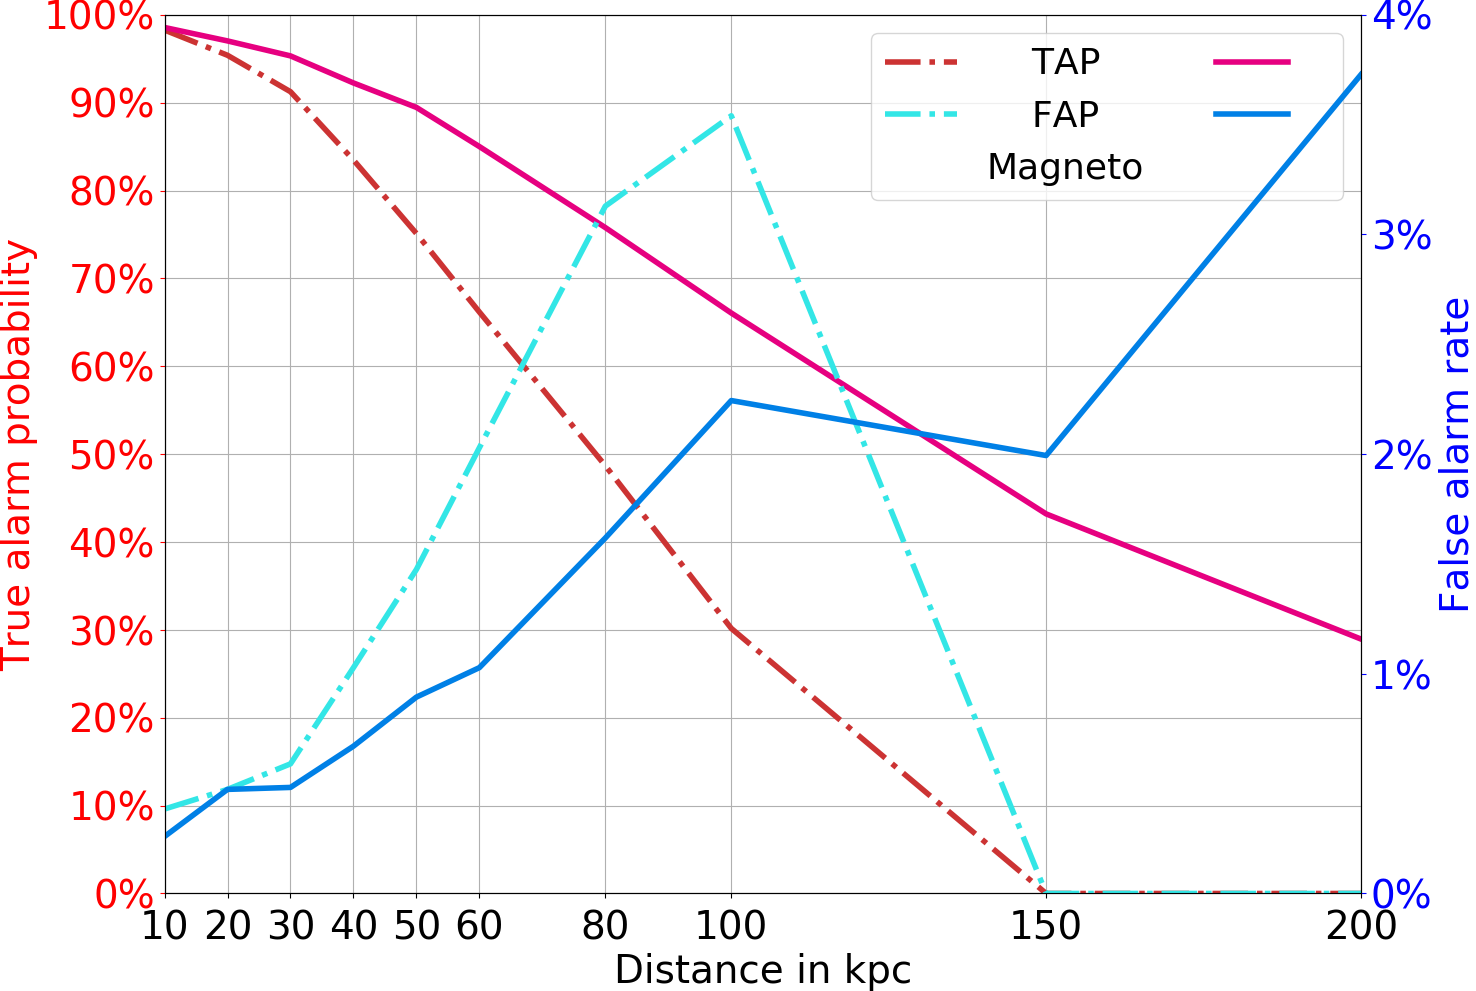
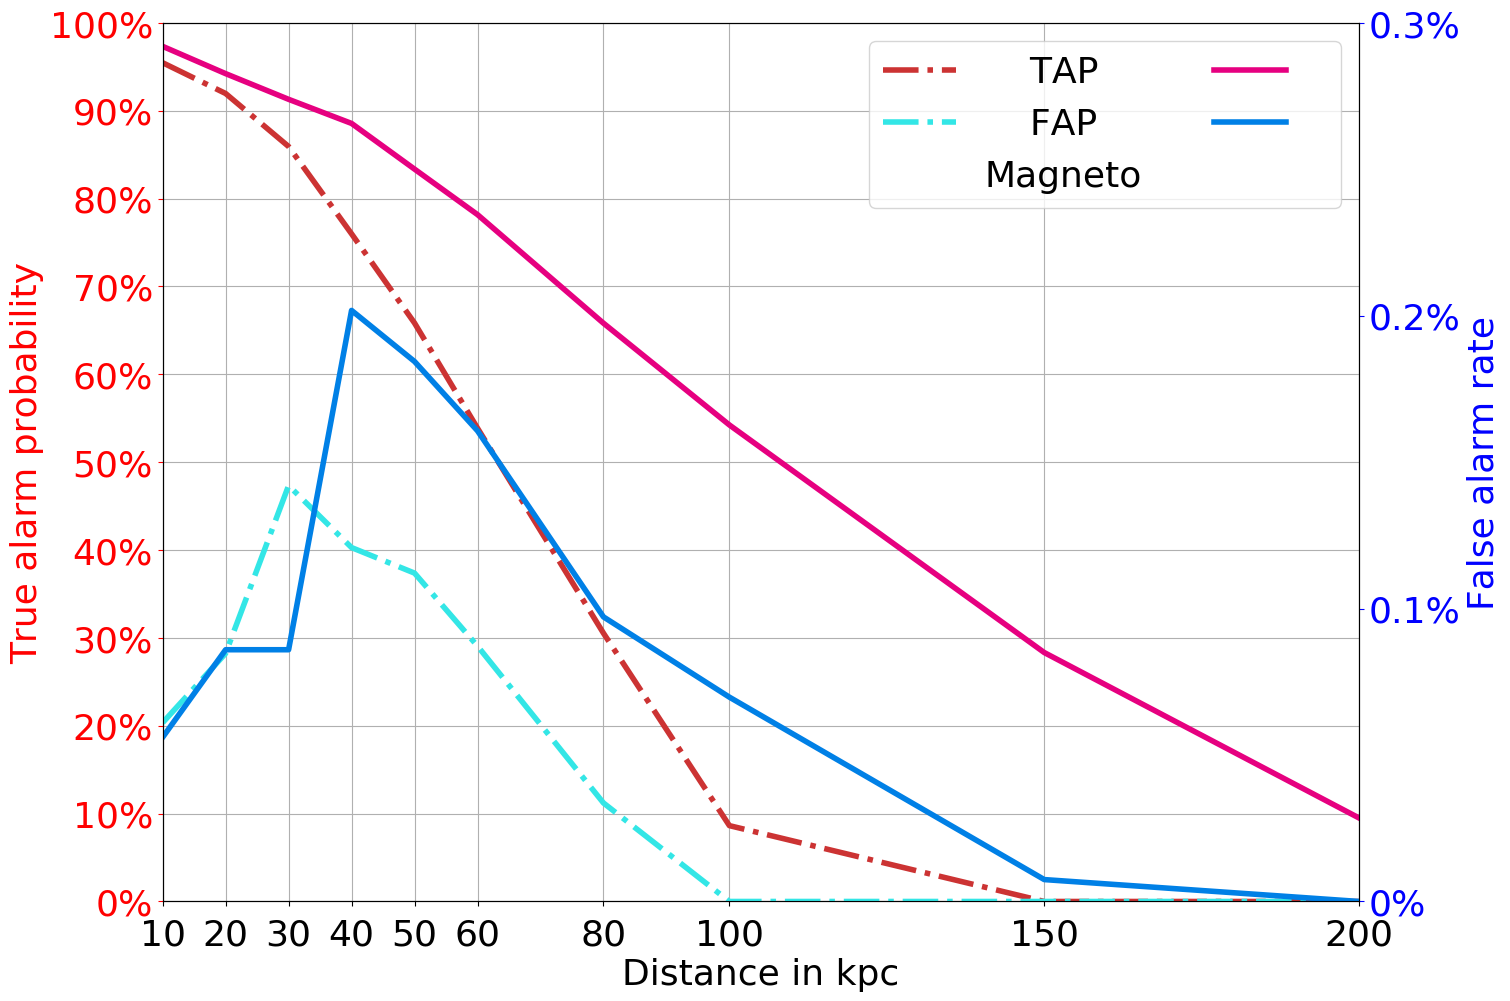
revised version of the paper

diff --git a/main.tex b/main.tex
@@ -87,13 +87,15 @@ the gravitational wave signals buried in noise. For the waveforms used in the
 training of the convolutional neural network, our results suggest that a
 network of advanced LIGO, advanced VIRGO and KAGRA, or a network of LIGO A+,
 advanced VIRGO and KAGRA is likely to detect a magnetorotational core collapse
-supernovae within the Large and Small Magellanic Clouds, or a Galactic event if
-the explosion mechanism is the neutrino-driven mechanism.  By testing the
-convolutional neural network with waveforms not used for training, we show that
-the true alarm probabilities are $52\%$ and $83\%$ at $60$ kpc for waveforms
-$\text{R3E1AC}$ and $\text{R4E1FC\_L}$.  For waveforms $\text{s}20$ and
-$\text{SFHx}$ at $10$ kpc, the true alarm probabilities are $70\%$ and $93\%$
-respectively. All at false alarm probability equal to $10\%$. 
+supernovae out to the Large or even Small Magellanic Clouds. A Galactic event 
+is likely to be detectable with a network of H+L+VK if the explosion mechanism 
+is the neutrino-driven mechanism.  By testing the convolutional neural network 
+with waveforms not used for training, we show that the true alarm probabilities 
+are $50\%$ and $73\%$ at $50$ kpc for waveforms $\text{R3E1AC}$ and 
+$\text{R4E1FC\_L}$ for networks of HLVK and H+L+VK respectively.  
+For waveforms $\text{s}20$ and $\text{SFHx}$ at $10$ kpc, 
+the true alarm probabilities are $64\%$ for a network of H+L+VK. 
+All at false alarm probability equal to $1\%$. 
 \end{abstract}
 
 \pacs{}
@@ -119,11 +121,14 @@ respectively. All at false alarm probability equal to $10\%$.
 %
 % general background on GWs
 %
-Since 2015 when LIGO made the first direct observation of \acp{GW} from the
-merger of a binary black hole~\cite{abbott2016observation}, there have been
+In 2015, LIGO made the first direct observation of \acp{GW} from the
+merger of a binary black hole~\cite{abbott2016observation} 
+with the detector of \ac{aLIGO}~\cite{aasi2015advanced}.
+Since then and after VIRGO joined the observations 
+with its \ac{AdVirgo} detector~\cite{abbott2016gw151226,
+abbott2017gw170608, abbott2017gw170814}, there have been
 numerous observations of \acp{GW} from similar systems in the subsequent
-observation runs of LIGO and VIRGO~\cite{abbott2016gw151226,
-abbott2017gw170608, abbott2017gw170814}. These discoveries represent a crucial
+observation runs of LIGO and VIRGO. These discoveries represent a crucial
 milestone in \ac{GW} astronomy and have opened up a new window on the universe.
 More recently, LIGO and VIRGO have observed the \acp{GW} from a binary neutron
 star merger~\cite{abbott2017gw170817, abbott2017gravitational, abbott2017multi}
@@ -131,8 +136,9 @@ where the \acp{GW} and an associated gamma-ray burst were observed
 simultaneously. Other counterparts across the electromagnetic spectrum were
 also observed by later follow-up observations~\cite{abbott2017multi}. In the
 near future, many more observations of \acp{GW} from similar \ac{CBC} systems
-can be expected as KAGRA starts joint observations with LIGO and
-VIRGO~\cite{aso2013interferometer, somiya2012detector, abbott2018prospects}.
+can be expected as the KAGRA interferometer starts joint observations with LIGO and
+VIRGO~\cite{aso2013interferometer, somiya2012detector, abbott2018prospects, gossan2016observing,
+abbott2016first, abbott2019optically}.
 
 %
 % intro to core-collapse supernovae
@@ -140,11 +146,9 @@ VIRGO~\cite{aso2013interferometer, somiya2012detector, abbott2018prospects}.
 In addition to \acp{CBC}, massive stars with $10-100 \text{M}_\odot $ at
 zeros-age main sequence ending their lives by becoming 
 %with core of $10-100 \text{M}_\odot $ prior to collapse 
-\acp{CCSN} are also considered to be potential sources to the second generation
-detectors such as \ac{aLIGO}~\cite{aasi2015advanced},
-\ac{AdVirgo}~\cite{acernese2014advanced} and KAGRA
-interferometers~\cite{aso2013interferometer, gossan2016observing,
-abbott2016first, abbott2019optically}. It is currently not entirely clear to astronomers how such
+\acp{CCSN} are also considered to be potential sources to
+\ac{aLIGO}, \ac{AdVirgo} and KAGRA interferometers. 
+It is currently not entirely clear to astronomers how such
 massive stars become supernovae. The basic theory of the explosion, confirmed
 by the neutrino events observed from SN1987A~\cite{sato1987analysis}, begins
 with a massive star at the final stage of its life forming a core that is
@@ -153,7 +157,7 @@ reactions. The iron core is supported by the pressure of relativistic
 degenerate electrons and if the mass of the core exceeds the effective
 Chandrasekhar mass~\cite{baron1990effect, bethe1990supernova}, core collapse
 will ensue and continue until the core reaches nuclear density. The nuclear
-equation of state will then stiffens by the strong nuclear force above the
+equation of state will then stiffens by the strong nuclear force as the core exceeds
 nuclear density and stops the core collapse. The inner core will bounce back
 and a shock wave will be sent through the infalling matter.  By losing energy
 to the dissociation of the iron nuclei and to neutrino cooling, the shock wave
@@ -340,7 +344,8 @@ often obtained through rough trial and error, followed by fine tuning.
 %
 During the training stage, the weights of the neurons in a \ac{CNN} are updated
 using an algorithm called back-propagation~\cite{lecun1988theoretical}. The
-outputs of the \ac{CNN} (the probabilities of the inferred classes in our case) are used as an input to the loss-function that is associated with the entire network.  
+outputs of the \ac{CNN} (the probabilities of the inferred classes in our case) 
+are used as an input to the loss-function that is associated with the entire network.  
 The value of the loss function is used to evaluate how well the algorithm models the input data of the \ac{CNN}.
 After a subset of training data is fed through the \ac{CNN}, the back-propagation algorithm 
 then computes the gradient of the loss-function with respect
@@ -399,7 +404,7 @@ Layer & Type      & Neurons  & Filter size & Act. Fun \\ \hline
 \setlength\labelsep{0pt}
 \normalfont{
 \item The architecture of the \ac{CNN} used in this work for the purpose of
-distinguishing supernova signals in backgound \ac{GW} detector noise vs detectr
+distinguishing supernova signals in background \ac{GW} detector noise vs detector
 noise alone. In the table, Conv means convolutional layer, Max-pool means
 max-pooling layer, and Fully-con means fully-connected layer. Neuron and Act.
 Fun indicate the number of neurons and the activation function used for the
@@ -493,8 +498,13 @@ data/Andresen2019/ }}$^{,}$\footnote{\href{ https://www.astro.princeton.edu/~bur
 { https://www.astro.princeton.edu/~burrows/gw.3d/  }}. The simulations in~\cite{10.1093mnrasstz990,
 kuroda2017correlated, muller2012parametrized, powell2019gravitational,
 radice2019characterizing, yakunin2017gravitational, ott2013general} were from 3D modelling of
-the supernovae while the simulations in~\cite{yakunin2015gravitational,
-ott2009gravitational, murphy2009model} were 2D. These
+the supernovae. 
+In particular, the waveforms from~\cite{10.1093mnrasstz990, muller2012parametrized,  ott2013general} assuming an observer both along the equator and at the pole
+are available, 
+the waveforms from~\cite{kuroda2017correlated, powell2019gravitational} are available for an observer at the pole, and the waveforms from~\cite{yakunin2017gravitational,
+radice2019characterizing} for an equatorial observer.
+The simulations in~\cite{yakunin2015gravitational,
+ott2009gravitational, murphy2009model} were 2D.   These
 simulations cover a wide range of progenitor masses from $9\text{M}_\odot$ to
 $60\text{M}_\odot$ and the specific progenitor masses of the simulations are
 shown in Table~\ref{table:waveforms}. Examples of the waveforms for
@@ -576,8 +586,8 @@ $^*$ Mass of a star in a binary system with an initial helium mass of $3.5\text{
         }
     \end{center}
     \caption{Examples of simulated waveforms for which the explosion is modelled by
-the magnetorotational mechanism. The left panel shows a waveform
-from~\cite{abdikamalov2014measuring}. The progenitor is $12\text{M}_\odot$ with
+the magnetorotational mechanism. The left panel shows a waveform 
+from~\cite{abdikamalov2014measuring} for an equatorial observer. The progenitor is $12\text{M}_\odot$ with
 differential rotation parameter $A=10^4~\text{km}$. The initial angular velocity
 at the core $\Omega_c$ is $5.0~\text{rads/s}$. The middle panel shows a waveform
 from~\cite{dimmelmeier2008gravitational}. The simulation corresponds to a
@@ -588,7 +598,7 @@ and $\Omega_c$ are $10^4$ km and $3.0~\text{rad/s}$ respectively. In all panels,
 only the $h_{+}$ polarisations are shown because the simulations are
 axis-symmetric or 2D, and therefore described by only one polarisation.  The
 sources are assumed to be at a distance of $10$ kpc. The x-axes show the time after 
-core bounce.\label{fig:magwaveforms}} 
+core bounce. The waveforms shown in all panels are for an observer in the equatorial plane.\label{fig:magwaveforms}} 
 \end{figure*}
 %
 % plot of example neutrino waveforms
@@ -613,7 +623,11 @@ modelled by the neutrino-driven mechanism. From the left to the right, the
 panels show waveforms from~\cite{10.1093mnrasstz990, 
 radice2019characterizing, yakunin2017gravitational}, with progenitors of masses equal to
 $15\text{M}_\odot$, $15\text{M}_\odot$ and $60\text{M}_\odot$ respectively.
+For the left and middle panels, the observer is assumed to be along the pole, 
+while an observer along the equator is assumed for the right panel.
 The sources are assumed to be at $10$ kpc from earth. The x-axes show the time after core bounce.
+The waveform shown in the left panel is for a polar observer, while the other panels show that 
+for an equatorial observer.
 \label{fig:neuwaveforms}} 
 \end{figure*}
 %
@@ -785,8 +799,8 @@ This step is essential for the \ac{CNN} to learn the features of the waveforms
 and to identify them effectively under different noise scenarios and starting
 times.  After that, we generate independent noise realisations for the
 background noise class. The entire data set $\bold{D}$ has
-roughly $l = 1.8 \times 10^{5}$ data samples, where each of the 3 classes
-contains approximately $6\times10^{4}$ data samples.
+roughly $l = 3.0 \times 10^{5}$ data samples, where each of the 3 classes
+contains approximately $1.0\times10^{5}$ data samples.
 %
 %\begin{equation}\label{eq:finaldata}
 %\bold{D}(\boldsymbol{\alpha}, \boldsymbol{\delta}, \boldsymbol{\delta_t}, \bold{t}, \bold{x}) =  \left(\begin{array}{c}
@@ -810,9 +824,11 @@ In Fig.~\ref{fig:sample}, we show a representative example of a pre-processed
 input time-series for a single detector. A data sample consists of such a
 time-series containing a signal from the same source or simply background noise
 from all the detectors in the network. The data samples are then split into 3
-groups, with $1\times10^{4}$ samples being randomly selected for validation,
-$10\%$ of the remainder for testing and $90\%$ for training. When the training
-is finished for a dataset generated at a given distance, the above described
+groups, with $1.0\times10^{4}$ samples being randomly selected for validation.
+Of the remainder, $\sim 1.7\times10^{5}$ for training and $\sim 1.2\times10^{5}$ for tesing. 
+The large number of testing samples is chosen so that low values of \ac{FAP} can be obtained 
+(see section \ref{sec:result} and section \ref{sec:unseen}).
+When the training is finished for a dataset generated at a given distance, the above described
 procedure will be repeated for another distance with a different \ac{CNN} of 
 the same architecture until the training for all
 distances have been carried out for a \ac{GW} detector network. The entire
@@ -930,26 +946,26 @@ results for three chosen \acp{FAP} values are shown in Fig.~\ref{fig:eff}.  In
 this figure, a similar trend is seen that magnetorotational signals are easier
 for the \ac{CNN} to identify than neutrino-driven signals at a given distance.
 For magnetorotational signals from sources located at $50$ kpc and a \ac{FAP}
-of $10\%$, the \ac{CNN} achieves a \ac{TAP} of $94\%$ and $82\%$ for the
+of $1\%$, the \ac{CNN} achieves a \ac{TAP} of $87\%$ and $72\%$ for the
 networks H+L+VK and HLVK respectively. At more restrict \acp{FAP} such as
-$0.1\%$, the \ac{CNN} still achieves \acp{TAP} $86\%$ and $68\%$ for sources at
+$0.01\%$, the \ac{CNN} still achieves \acp{TAP} of $75\%$ and $62\%$ for sources at
 the same distance for the two networks respectively.  For sources that are
-located at a slightly further distance of $60$ kpc, both networks achieve a
-\ac{TAP} of close to or larger than $80\%$ at a \ac{FAP} of $10\%$. Such a range
+located at a slightly further distance of $60$ kpc, the networks achieve a
+\ac{TAP} of $82\%$ (H+L+VK) or $60\%$ (HLVK) at a \ac{FAP} of $1\%$. Such a range
 includes distances associated with the Large and Small Magellanic Clouds and
 covers the satellite galaxies in between~\cite{karachentsev2004catalog,
-belokurov2007cats}.  For sources at $100$ kpc, the \acp{TAP} are close to or
-larger than $60\%$ for H+L+VK for all chosen \acp{FAP} values, and is $73\%$ if
-the \ac{FAP} is $10\%$. Even for sources at $150$ and $200$ kpc, the \acp{TAP}
-are $54\%$ and $38\%$ respectively for the same \ac{FAP}, indicating that with
+belokurov2007cats}.  For sources at $100$ kpc, the \acp{TAP} are no less than $50\%$ 
+for H+L+VK for all chosen \acp{FAP} values, and is $61\%$ if
+the \ac{FAP} is $1\%$. These numbers indicate that with
 such a \ac{GW} network, it is possible to detect magnetorotational \ac{CCSN}
-signals out to such a distance. On the other hand, it is more difficult for the
+signals out to such a distance. For sources at $150$ and $200$ kpc, the \acp{TAP}
+drop to $39\%$ and $21\%$ respectively for \ac{FAP} equal to $1\%$.
+On the other hand, it is more difficult for the
 \ac{CNN} to detect and classify the neutrino-driven signals, due to their
-weaker amplitudes. Nonetheless, for sources at $10$ kpc, the \ac{CNN} achieves
-a \ac{TAP} of $76\%$ and $55\%$ for H+L+VK and HLVK respectively if the
-\ac{FAP} is $10\%$.  This means that for a \ac{GW} from a Galactic \ac{CCSN}
-signal it is possible to detect and classify it with either of these \ac{GW}
-detector networks.
+weaker amplitudes. For example, for sources at $10$ kpc, the \ac{CNN} achieves
+a \ac{TAP} of $53\%$ and $22\%$ for H+L+VK and HLVK respectively if the
+\ac{FAP} is $1\%$.  This means that for a \ac{GW} from a Galactic \ac{CCSN}
+signal it is possible to detect and classify it with a network of H+L+VK.
 
 %
 % the TAP as a function of distance
@@ -970,8 +986,8 @@ detector networks.
 panel shows the results for the neutrino-driven mechanism, while the right
 shows those for the magnetorotational mechanism. In both panels, the solid
 lines show the results for the network H+L+VK, and the dashed lines for HLVK.
-Three \acp{FAP} values are chosen, blue for \ac{FAP} $=10\%$, green for \ac{FAP}
-$=1\%$, red for \ac{FAP} $=0.1\%$.\label{fig:eff}}
+Three \acp{FAP} values are chosen, blue for \ac{FAP} $=1\%$, green for \ac{FAP}
+$=0.1\%$, red for \ac{FAP} $=0.01\%$.\label{fig:eff}}
 \end{figure*}
 
 %
@@ -1004,22 +1020,22 @@ For example, an input will be assigned into a certain class if the
 corresponding probability is larger than the pre-selected threshold probability. In such a
 scenario, the \ac{FAP} and \ac{TAP} would be affected by the choice of the
 threshold. We show such a result in Fig.~\ref{fig:ROCfixed}, where we employed
-a threshold probability of $50\%$. This value is chosen because for lower values, 
-there could be more than a class with predicted probabilities from the \ac{CNN} 
-larger than the threshold, while higher values could potentially rule out inputs 
-that may otherwise be correctly identified.
-For H+L+VK and magnetorotational signals at $10$ kpc, the \ac{TAP} is $99\%$. If the distance
-is extended to $80$ kpc, the \ac{TAP} is still close to $80\%$.  For the
-largest distances tested in this work, $150$ and $200$ kpc, the \acp{TAP} are
-$43\%$ and $29\%$ respectively. 
-For HLVK, the \ac{TAP} is $98\%$ and $49\%$ for sources at $10$ and
-$80$ kpc respectively.
+a threshold probability of $95\%$. 
+This value is chosen so that low values of \ac{FAP} can be maintained throughout all tested distances
+as illustrated by the right y-axes of the figures.
+%because for lower values, 
+%there could be more than a class with predicted probabilities from the \ac{CNN} 
+%larger than the threshold, while higher values could potentially rule out inputs 
+%that may otherwise be correctly identified.
+For H+L+VK and magnetorotational signals at $10$ kpc, the \ac{TAP} is $97\%$. If the distance
+is extended to $100$ kpc, the \ac{TAP} is still larger than $50\%$. 
+For HLVK, the \ac{TAP} is $95\%$ for sources at $10$ kpc and drops to $54\%$ at
+$60$ kpc.
 %The \acp{TAP} decrease to $10\%$ and $9\%$ for sources at $150$ and $200$ kpc.
-For all distances, the \ac{CNN} maintains a \ac{FAP} no larger than $4\%$ for
+For all distances, the \ac{CNN} maintains a \ac{FAP} no larger than $0.2\%$ for
 both networks regarding magnetorotational waveforms. For neutrino-driven
-signals, we show that H+L+VK has a \acp{TAP} of $66\%$ at $10$ kpc while it
-is $55\%$ at $10$ kpc for HLVK.  Both of the networks have \acp{FAP} close to
-or less than $20\%$. It should be noted that the results presented in this section are
+signals, we show that H+L+VK has a \acp{TAP} of $39\%$ at $10$ kpc while it
+is $6\%$ at $10$ kpc for HLVK with \acp{FAP} $\sim 0.1\%$. It should be noted that the results presented in this section are
 averaged over all the data samples in the testing samples. The performance on
 any individual waveform may vary depending on the morphology and the amplitudes
 of the waveform.
@@ -1080,10 +1096,10 @@ randomly drawn from the same distribution as the training samples.
     \caption{The waveforms excluded from the training session of the \ac{CNN}
 and used as an extra test for the performance of the trained \ac{CNN}. The top 
 panels show the waveforms $\text{R3E1AC}$(left) and $\text{R4E1FC\_L}$(right), 
-modelled by the magnetorotational mechanism.
+for a polar observer, modelled by the magnetorotational mechanism. 
 The inset plots show the $h_{\times}$ polarisations of the waveform, which are at least one order of magnitude weaker than the 
 $h_{+}$ polarisations.
-The waveforms shown in the bottom panels are $\text{SFHx}$(left) and $\text{s}20$(right), 
+The waveforms shown in the bottom panels are $\text{SFHx}$(left) and $\text{s}20$(right), for an equatorial observer,
 modelled by the neutrino-driven mechanism. 
 Shown in the x-axes are the time after core bounce.\label{fig:Extratestwaveform}} 
 \end{figure*}
@@ -1114,17 +1130,17 @@ The waveforms have not been used for the training of the \ac{CNN}.
 %
 % the new test waveofmr procedure
 %
-Using the procedure described in Sec.~\ref{sec:spwf}, we generate $1200$
-samples for each distance and therefore each class has $400$
+Using the procedure described in Sec.~\ref{sec:spwf}, we generate $1.2\times10^5$
+samples for each distance and therefore each class has $4\times10^4$
 samples. The performance of the \ac{CNN} on the test waveforms is shown in
 Fig.~\ref{fig:Extratest}. For waveforms $\text{R3E1AC}$ and $\text{R4E1FC\_L}$
-at $50$ kpc and a \ac{FAP} of $10\%$, the \ac{CNN} achieves a \ac{TAP} of $87\%$
-with H+L+VK and $59\%$ with HLVK respectively. At $60$ kpc, the \acp{TAP} drops
-slightly to $83\%$ and $52\%$ respectively. This indicates that with the
-\ac{CNN}, it is possible to detect these waveforms from sources that are at
-distances consistent with the Large and Small Magellanic Clouds. For waveforms
-$\text{s}20$ and $\text{SFHx}$, the \acp{TAP} are $93\%$ and $70\%$ for the two
-networks if the sources are at $10$ kpc and the \ac{FAP} is $10\%$.  The
+at $60$ kpc and a \ac{FAP} of $1\%$, the \ac{CNN} achieves a \ac{TAP} of $73\%$
+with H+L+VK. This indicates that with the
+\ac{CNN} and a network of H+L+VK, it is possible to detect these waveforms from sources that are at
+distances consistent with the Large and Small Magellanic Clouds.
+For HLVK and a distance of $50$ kpc, a \ac{TAP} of $50\%$ is achieved, showing the possibility of detecting these waveforms out to the Large Magellanic Clouds.
+For waveforms $\text{s}20$ and $\text{SFHx}$, the \acp{TAP} are $64\%$ and $36\%$ for the two
+networks if the sources are at $10$ kpc and the \ac{FAP} is $1\%$.  The
 efficiency for the waveforms $\text{s}20$ and $\text{SFHx}$ is noticeably
 higher than that for the neutrino-driven mechanism in Fig.~\ref{fig:eff} for
 the same distance. This is because as mentioned before, the detection and
@@ -1148,12 +1164,12 @@ class consisted of approximately $4\times10^5$ samples.
 % Primary magneto results
 %
 We have shown that with a \ac{GW} detector network of HLVK, when the \ac{FAP}
-was $10\%$, once trained, a \ac{CNN} could achieve a \ac{TAP} close to $80\%$
+was $1\%$, once trained, a \ac{CNN} could achieve a \ac{TAP} of $60\%$
 for magnetorotational signals from sources at $60$ kpc. Using a network of
-H+L+VK, we showed that the \ac{TAP} is increased to $91\%$.  Both the Large and
+H+L+VK, we showed that the \ac{TAP} is increased to $82\%$.  Both the Large and
 Small Magellanic Clouds are within this distance. If the distance is extended
-to $150$ or $200$ kpc, a \ac{TAP} of $54\%$ or $38\%$ respectively are still
-achievable for H+L+VK, indicating the small possibility of detections within
+to $150$ or $200$ kpc, a \ac{TAP} of $39\%$ or $21\%$ respectively are still
+achievable for H+L+VK, indicating a small possibility of detections within
 such distances. 
 
 %
@@ -1161,9 +1177,9 @@ such distances.
 %
 For the neutrino-driven mechanism, the weaker amplitudes of the waveforms
 result in lower \acp{TAP} at the same distances.  For sources at $10$ kpc, the
-trained \ac{CNN}, with a \ac{FAP} of $10\%$, achieved a \ac{TAP} of $55\%$ and
-$76\%$ for HLVK and H+L+VK respectively. This indicates a Galactic \ac{CCSN}
-event would likely be detectable.
+trained \ac{CNN}, with a \ac{FAP} of $1\%$, achieved a \ac{TAP} of $22\%$ and
+$53\%$ for HLVK and H+L+VK respectively. This indicates a Galactic \ac{CCSN}
+event would likely be detectable with H+L+VK.
 
 %
 % statement about out of treaining data extra test samples
@@ -1171,9 +1187,9 @@ event would likely be detectable.
 We used four waveforms that were not used for the training of the \ac{CNN} to
 test the performance of the \ac{CNN} in a more realistic situation. We found
 that for waveforms $\text{R3E1AC}$ and $\text{R4E1FC\_L}$ from sources at
-$60$ kpc, the \acp{TAP} are $83\%$ and $52\%$ for H+L+VK and HLVK respectively.
-For waveforms $\text{s}20$ and $\text{SFHx}$, the \acp{TAP} are $93\%$ and
-$70\%$ for the two networks respectively. All at \ac{FAP} of $10\%$. 
+$60$ kpc, the \acp{TAP} are $73\%$ and $38\%$ for H+L+VK and HLVK respectively.
+For waveforms $\text{s}20$ and $\text{SFHx}$ at $10$ kpc, the \acp{TAP} are $64\%$ and
+$36\%$ for the two networks respectively. All at \ac{FAP} of $1\%$. 
 The results prove the possibility of
 using a \ac{CNN} as a tool for the detection and classification of \ac{CCSN}
 \ac{GW} signals.
@@ -1198,6 +1214,8 @@ using a \ac{CNN} as a tool for the detection and classification of \ac{CCSN}
 \section{ACKNOWLEDGEMENTS}
 We would like to thank Jade Powell, Marek Szczepanczyk and Miguel-Angel Aloy Torás for their 
 constructive comments on the paper.
+We would also like to express our gratitude to the anonymous reviewers for their 
+thorough and constructive comments on the paper.
 I.S.H. and C.M. are supported by the Science and Technology Research Council
 (grant No.~ST/L000946/1) and the European Cooperation in Science and
 Technology (COST) action CA17137. 
